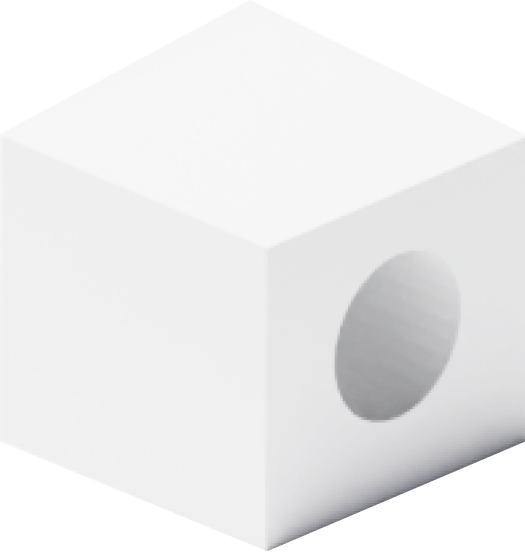
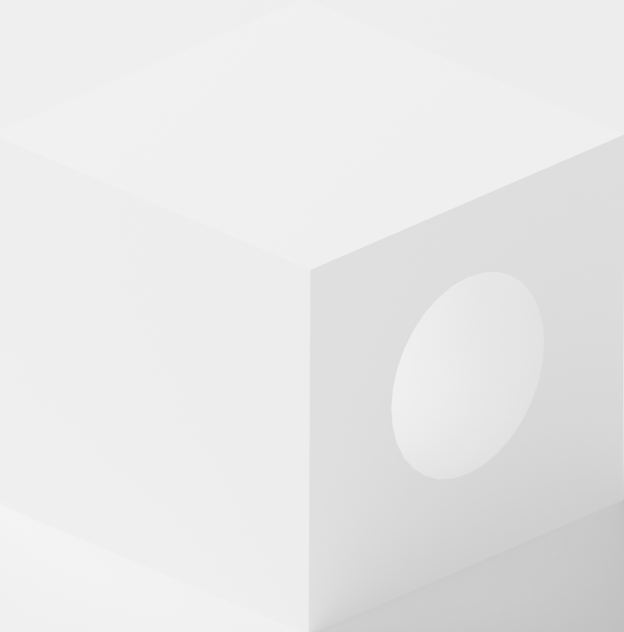
:lipstick: fix: cube size and position

Changed region(s): [[0.4876, 0.7699, 1.0, 1.0], [0.6095, 0.462, 0.8838, 0.7699], [0.8229, 0.2156, 1.0, 0.308]]

diff --git a/views/home/components/dex/index.tsx b/views/home/components/dex/index.tsx
@@ -11,12 +11,28 @@ const DEX: FC = () => {
   return (
     <Box bg="#F0F0F0">
       <Container
-        mb={['1.875rem', '4.25rem']}
         display="flex"
+        mb={['1.875rem', '4.25rem']}
+        flexDirection={[
+          'row-reverse',
+          'row-reverse',
+          'row-reverse',
+          'row-reverse',
+          'row',
+        ]}
         justifyContent={['center', 'center', 'center', 'space-between']}
       >
-        <Box display={['none', 'none', 'none', 'block']}>
-          <Box width="25rem" position="absolute" ml="-5rem" mt="-10rem">
+        <Box
+          display={['none', 'none', 'none', 'none', 'block']}
+          position="relative"
+        >
+          <Box
+            left="-15rem"
+            width="47rem"
+            bottom="-10rem"
+            minWidth="25rem"
+            position="absolute"
+          >
             <img width="100%" src="/cube.png" alt="cube" />
           </Box>
         </Box>

diff --git a/views/home/components/dinero-markets/index.tsx b/views/home/components/dinero-markets/index.tsx
@@ -26,6 +26,8 @@ const DineroMarkets: FC = () => {
         justifyContent={['center', 'center', 'center', 'space-between']}
       >
         <Box
+          position="relative"
+          zIndex={1}
           maxWidth="587px"
           width="100%"
           ml={['none', 'none', 'none', '8.438rem']}
